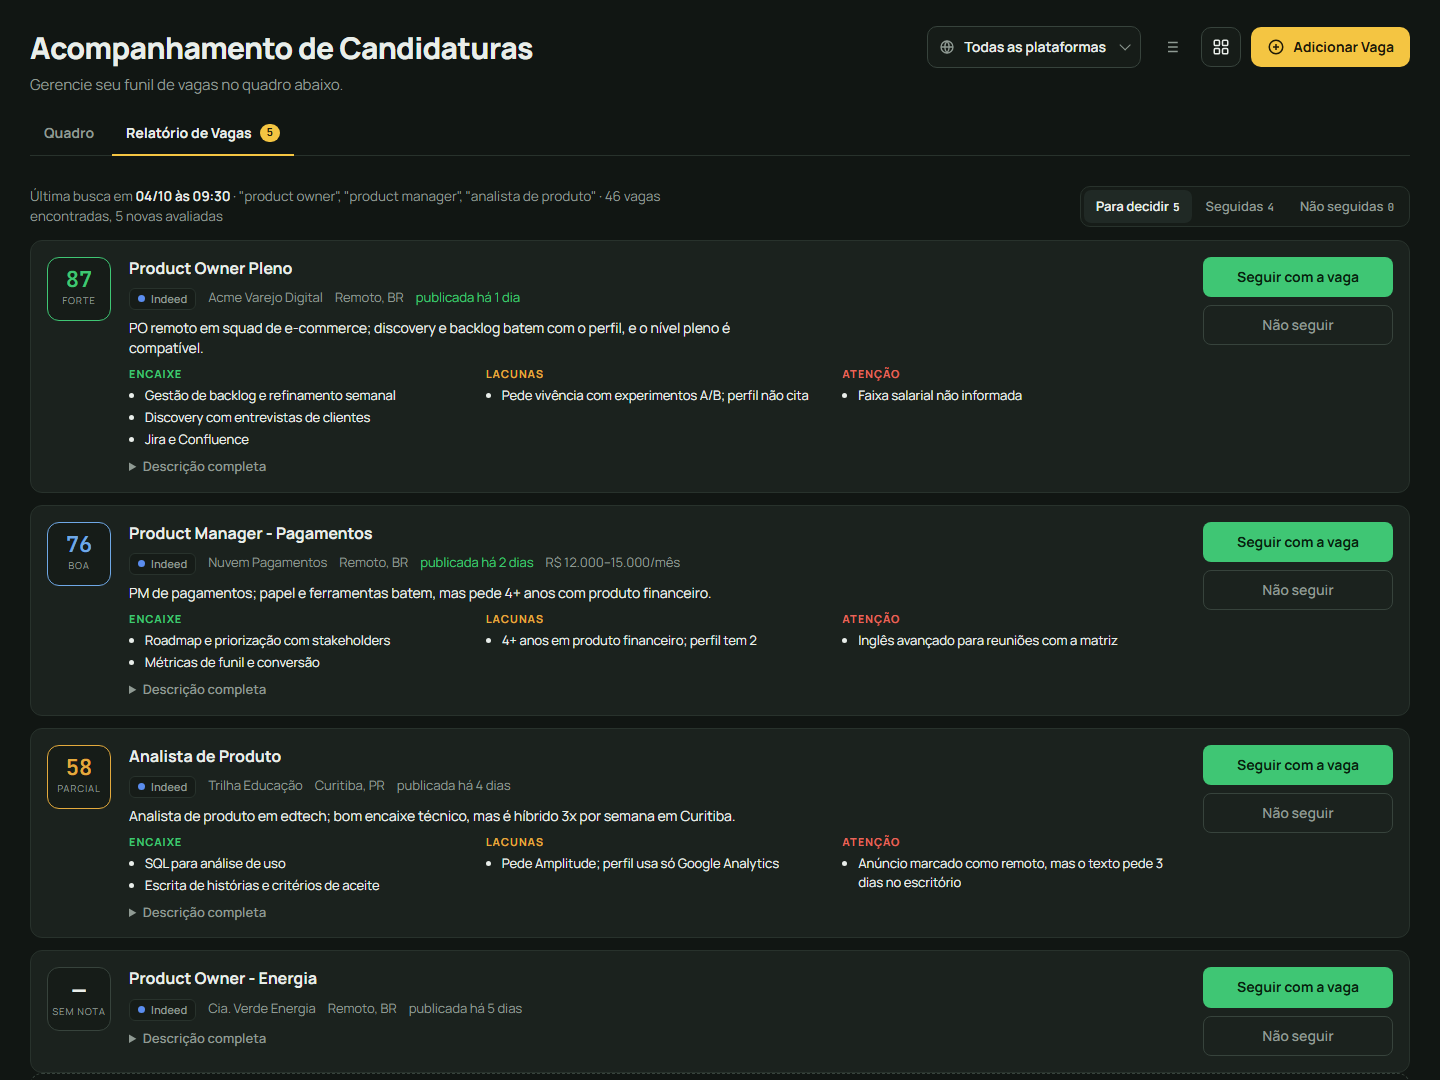
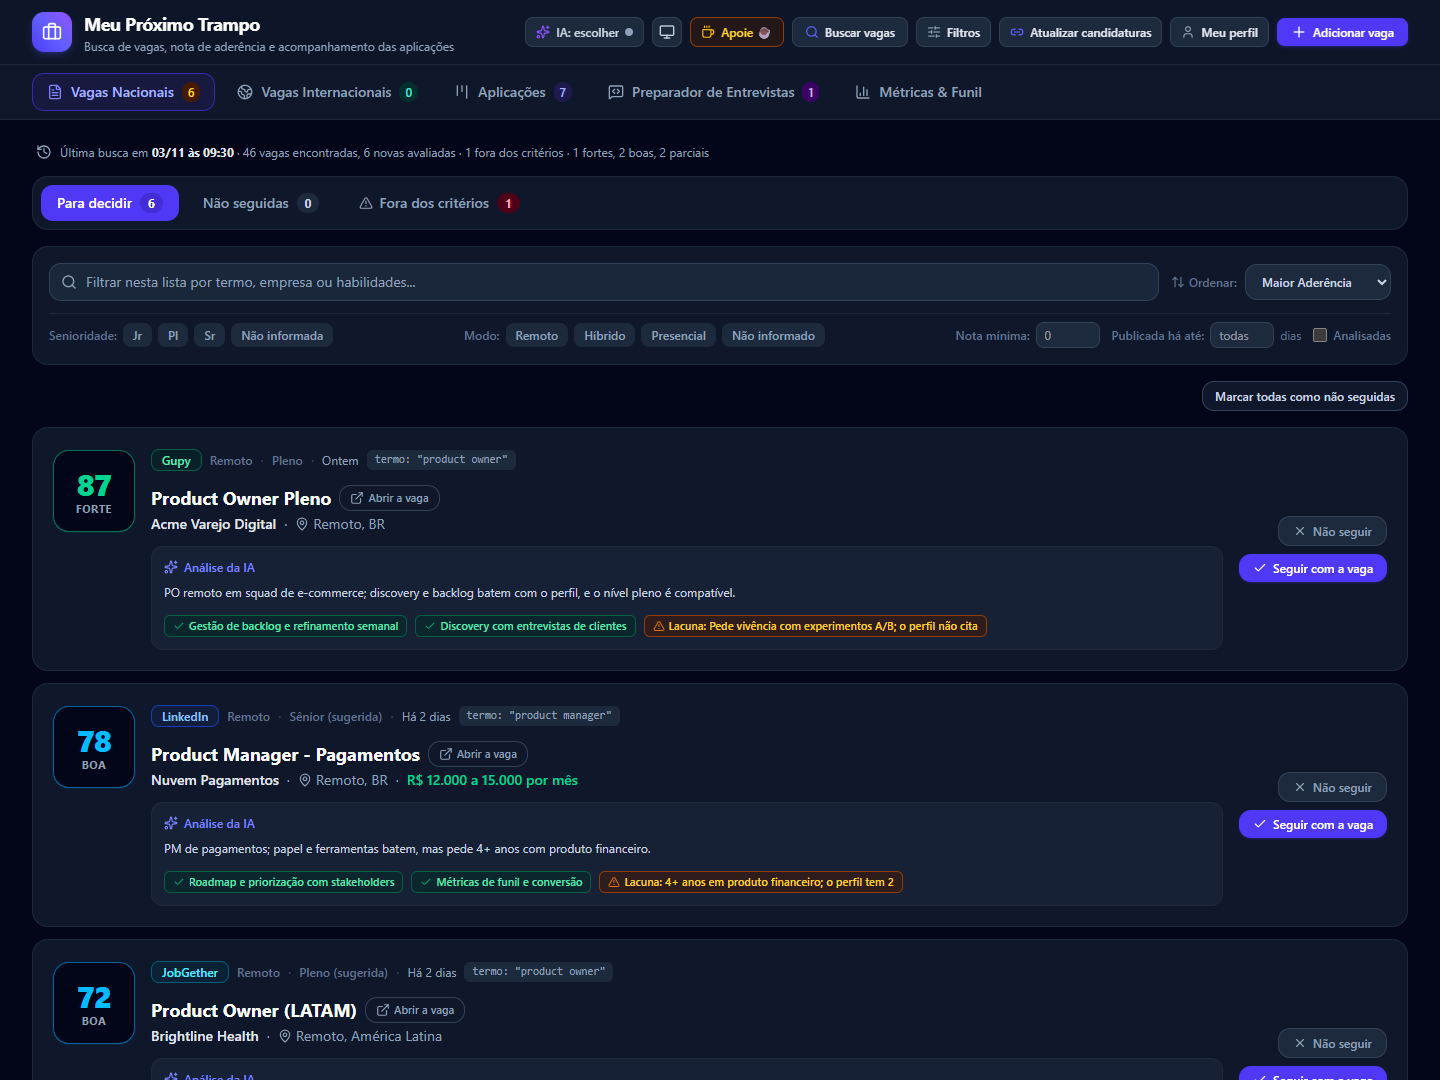
Documentação para quem chega: Como contribuir, capturas da página atual e ajustes de texto
- README: seção Como contribuir (testes, front na frontend-react, Spec Kit, skills, AGENTS.md) e o roteiro docs/novo-portal.md em Adicionar um portal; o .env em Seus dados e a lista de pausas com o MyGreenhouse e a EY como empresa.
- Capturas de Vagas Nacionais e Aplicações refeitas na página atual, com banco de demonstração (vagas e empresas inventadas).
- dash/README.md: título sem o nome antigo e a tabela de campos da vaga sem os parágrafos que a cortavam.
- .env.exemplo: login opcional da Gupy e do Greenhouse; docs/novo-portal.md: MYGREENHOUSE_PAUSA; skill buscar-vagas sem o nome antigo.

Changed region(s): [[0.0, 0.0, 1.0, 1.0], [0.8125, 0.6722, 0.9688, 0.7944], [0.8125, 0.4583, 0.9688, 0.55]]

diff --git a/README.md b/README.md
@@ -648,7 +648,8 @@ continua funcionando. Opções pontuais, sem mexer no arquivo:
   em `anexos/primeiros-passos/`, as versões anteriores do perfil em
   `anexos/perfis-anteriores/` e o progresso em `.cache/primeiros-passos.json`. O mesmo vale para `.liftli/` (o tom de voz
   das skills de LinkedIn), `linkedin/` (banners e imagens dos seus posts) e `.env`
-  (as chaves de API: as da IA, cadastradas pelo painel, e a opcional do startup.jobs). Se você fizer um fork, o seu
+  (as chaves da IA, cadastradas pelo painel; a chave opcional do startup.jobs; os logins opcionais da Gupy e do
+  Greenhouse, guardados pela página; e as pausas por portal: veja o `.env.exemplo`). Se você fizer um fork, o seu
   histórico continua só com você.
 - Dica: mantenha a ferramenta na branch `master` e os seus ajustes pessoais numa
   branch local (por exemplo `minha`), trazendo as melhorias com `git merge master`.
@@ -828,8 +829,8 @@ Para instalar à mão, no Claude Code:
   - Pausa sorteada de 3 a 7 segundos (`MYGREENHOUSE_PAUSA`, de 3 a 60). Se o portal recusar ou limitar, ele sai da
     busca sem nova tentativa e fica **24 horas em espera**. Captcha, login não feito ou página diferente da esperada
     deixam o portal de fora só daquela busca, com aviso.
-- **Pausa por portal:** cada portal que lê páginas (LinkedIn, Nerdin, InfoJobs, Vagas.com, EY, FullStack) tem a sua
-  pausa, ajustável no arquivo `.env` da raiz com `<PORTAL>_PAUSA=N` (`LINKEDIN_PAUSA`, `NERDIN_PAUSA`,
+- **Pausa por portal:** cada portal que lê páginas (LinkedIn, Nerdin, InfoJobs, Vagas.com, FullStack, MyGreenhouse
+  Jobs e o site da EY, nas empresas acompanhadas) tem a sua pausa, ajustável no arquivo `.env` da raiz com `<PORTAL>_PAUSA=N` (`LINKEDIN_PAUSA`, `NERDIN_PAUSA`,
   `INFOJOBS_PAUSA`, `VAGASCOM_PAUSA`, `EY_PAUSA`, `FULLSTACK_PAUSA`, `MYGREENHOUSE_PAUSA`), em segundos, de 3 a 60. O `.env.exemplo` traz uma linha comentada
   para cada um, com o padrão e o mínimo: copie a linha e tire o `#` do começo. O JobGether, que usa a API
   oficial, tem `JOBGETHER_PAUSA`, de 2 a 60 (padrão 2). Aumente só a do portal
@@ -890,7 +891,33 @@ O link e o QR code também ficam no canto de cima do dashboard.
 - [ ] Mais portais do Brasil (ex.: InHire, Catho, Glassdoor), pelo roteiro `docs/novo-portal.md`
 - [x] Preparar e simular entrevista para as vagas na coluna Entrevista
 
+## Como contribuir
+
+Contribuições são bem-vindas. Para contar um problema ou propor uma ideia, abra uma issue; numa mudança grande,
+converse na issue antes do PR. A ferramenta e a documentação são em português do Brasil.
+
+- **Testes:** `python -m unittest discover -s tests`, com o Python do `.venv` (`.venv\Scripts\python` no Windows).
+  Eles rodam em pastas temporárias, com dados fictícios, sem mexer nos seus.
+- **Python com a biblioteca padrão:** dependência nova só com motivo (as de hoje estão no `requirements.txt`).
+- **Nada pessoal na `master`:** ela é a ferramenta de qualquer pessoa. Nomes, empresas, números e regras suas ficam
+  numa branch local (veja [Seus dados](#seus-dados)), e `config.json`, `perfil.md`, `anexos/`, `curriculos/`,
+  `entrevistas/`, `dash/dados/`, `.cache/` e `.env` nunca entram num commit.
+- **A página é montada, não editada:** `dash/front/` é o resultado do build. O código-fonte do React fica na branch
+  `frontend-react` (o PR de uma mudança na página vai para ela), e o GitHub Actions ("Front: abrir PR", em
+  `.github/workflows/front.yml`) monta a página e abre o PR `front/atualizacao` para a `master`. O contrato entre a
+  página e o servidor está no [`dash/API.md`](dash/API.md), e o banco, no [`dash/README.md`](dash/README.md).
+- **Funcionalidade nova passa pelo [Spec Kit](https://github.com/github/spec-kit):** spec, plano e tarefas em
+  `specs/<número>-<nome>/` antes do código, seguindo a constituição do projeto
+  ([`.specify/memory/constitution.md`](.specify/memory/constitution.md)).
+- **Skills:** a fonte fica em `.agents/skills/`; depois de mudar uma, rode `python sincronizar_skills.py` para
+  atualizar a cópia em `.claude/skills/`.
+- **Com um assistente de código:** o [`AGENTS.md`](AGENTS.md) traz essas regras para o Claude Code, o Codex, o
+  Gemini CLI e o OpenCode.
+
 ### Adicionar um portal
+
+Comece pelo roteiro [`docs/novo-portal.md`](docs/novo-portal.md): a pesquisa do portal (termos de uso, regras para
+robôs, API), as decisões a tomar e os arquivos que um portal novo toca.
 
 Cada portal é um módulo em `fontes/` com uma função `buscar()` que devolve as vagas
 num formato comum. O contrato está em [`fontes/__init__.py`](fontes/__init__.py), e o
@@ -898,7 +925,7 @@ num formato comum. O contrato está em [`fontes/__init__.py`](fontes/__init__.py
 exemplo; o [`fontes/startupjobs.py`](fontes/startupjobs.py) mostra o `descrever()`, para
 portal cuja busca não traz a descrição. Portais do exterior sem filtro de país usam
 `POR_PAIS = False` e o apoio de [`fontes/_comum.py`](fontes/_comum.py) (o
-[`fontes/remotive.py`](fontes/remotive.py) é o exemplo mais curto). Contribuições são bem-vindas.
+[`fontes/remotive.py`](fontes/remotive.py) é o exemplo mais curto).
 
 ## Licença
 

diff --git a/dash/README.md b/dash/README.md
@@ -1,4 +1,4 @@
-# dash: Acompanhamento de Candidaturas
+# dash: o dashboard da ferramenta
 
 App local (Python, só biblioteca padrão) que mostra as vagas e o funil de candidaturas.
 
@@ -139,14 +139,6 @@ outros sites e `m-…` nas preenchidas à mão.
 | `lembretes`, `entrevista_em` | lembretes de follow-up marcados (`feito`, `dispensado`, `parar`, valem para a etapa e a data em `base`) e a data da entrevista |
 | `documentos[]` | cartas e respostas de formulário geradas pela página (`tipo`, `nome` dos arquivos em `curriculos/`) |
 | `checklist`, `lembretes_pendentes` | calculados pelo servidor a cada leitura (não gravados) |
-
-As análises do perfil (lacunas das vagas, cargos-alvo, plano de estudo e as marcações da prontidão
-internacional) ficam em `dash/dados/analises-perfil.json`, ao lado do banco, a última de cada tipo com a data.
-
-A preparação para entrevista fica fora do banco, em `entrevistas/` na raiz (fora do Git): `historias.json`
-(o banco de histórias, comum a todas as vagas, gravado só quando a pessoa confirma) e `vaga-<id>.json` (texto
-sobre a empresa, resumo, perguntas da IA, simulação e as anotações de cada entrevista). Rotas em
-`/api/entrevista/…`, só deste computador.
 | `sinais` | sinais positivos lidos no anúncio sem IA ("Oferece patrocínio de visto", "Oferece relocation" e as suas frases positivas); etiqueta verde na listagem, no card e no detalhe |
 | `triagem` | `pendente` (em Vagas Nacionais ou Vagas Internacionais), `seguir` (foi para Aplicações), `visitada` (não seguir), `fora` (furou os filtros da busca) |
 | `motivo_fora[]` | por que a vaga ficou fora dos critérios |
@@ -163,6 +155,14 @@ sobre a empresa, resumo, perguntas da IA, simulação e as anotações de cada e
 | `fora_dos_criterios` | análise da IA: motivo que os outros campos não pegam (ex.: exige residência em outro país) |
 | `anotacao` | suas anotações |
 | `criada_em`, `atualizada_em`, `analisada_em` | carimbos de data |
+
+As análises do perfil (lacunas das vagas, cargos-alvo, plano de estudo e as marcações da prontidão
+internacional) ficam em `dash/dados/analises-perfil.json`, ao lado do banco, a última de cada tipo com a data.
+
+A preparação para entrevista fica fora do banco, em `entrevistas/` na raiz (fora do Git): `historias.json`
+(o banco de histórias, comum a todas as vagas, gravado só quando a pessoa confirma) e `vaga-<id>.json` (texto
+sobre a empresa, resumo, perguntas da IA, simulação e as anotações de cada entrevista). Rotas em
+`/api/entrevista/…`, só deste computador.
 
 Uma vaga aparece em Aplicações quando tem `etapa` e é `manual` ou tem `triagem: "seguir"`.
 

diff --git a/.claude/skills/buscar-vagas/SKILL.md b/.claude/skills/buscar-vagas/SKILL.md
@@ -1,6 +1,6 @@
 ---
 name: buscar-vagas
-description: Busca vagas de emprego (Indeed, Gupy, InfoJobs, Vagas.com, Nerdin, JobGether e as empresas acompanhadas, como a EY; LinkedIn, startup.jobs e FullStack se estiverem ligados; o MyGreenhouse Jobs, portal com login, só pela página), dá nota de aderência de cada vaga ao perfil de carreira do usuário e grava as vagas no dashboard local "Acompanhamento de Candidaturas" (abas Vagas Nacionais e Vagas Internacionais), onde o usuário decide se segue ou não com cada vaga. Também analisa vagas adicionadas à mão no dashboard, ajuda a montar o perfil e a configuração no primeiro uso, abre o dashboard e responde sobre o andamento das candidaturas. Use sempre que o usuário pedir para procurar, buscar ou atualizar vagas, empregos ou oportunidades, perguntar "tem vaga nova?", pedir a busca num desses portais, pedir para abrir o dashboard, analisar as vagas que adicionou nele ou as vagas das listas, ou perguntar em que pé estão as candidaturas (entrevistas, aplicações, propostas) ou o que as vagas pedem (habilidades mais pedidas, certificações, tempo de experiência), mesmo sem citar o portal nem o dashboard. Perguntas pontuais só sobre a Gupy (vagas de uma empresa, vagas PCD, salário de uma vaga) são com a skill consultar-gupy.
+description: Busca vagas de emprego (Indeed, Gupy, InfoJobs, Vagas.com, Nerdin, JobGether e as empresas acompanhadas, como a EY; LinkedIn, startup.jobs e FullStack se estiverem ligados; o MyGreenhouse Jobs, portal com login, só pela página), dá nota de aderência de cada vaga ao perfil de carreira do usuário e grava as vagas no dashboard local (abas Vagas Nacionais e Vagas Internacionais), onde o usuário decide se segue ou não com cada vaga. Também analisa vagas adicionadas à mão no dashboard, ajuda a montar o perfil e a configuração no primeiro uso, abre o dashboard e responde sobre o andamento das candidaturas. Use sempre que o usuário pedir para procurar, buscar ou atualizar vagas, empregos ou oportunidades, perguntar "tem vaga nova?", pedir a busca num desses portais, pedir para abrir o dashboard, analisar as vagas que adicionou nele ou as vagas das listas, ou perguntar em que pé estão as candidaturas (entrevistas, aplicações, propostas) ou o que as vagas pedem (habilidades mais pedidas, certificações, tempo de experiência), mesmo sem citar o portal nem o dashboard. Perguntas pontuais só sobre a Gupy (vagas de uma empresa, vagas PCD, salário de uma vaga) são com a skill consultar-gupy.
 ---
 <!-- Cópia gerada de .agents/skills/buscar-vagas/ por sincronizar_skills.py: edite lá. -->
 

diff --git a/.agents/skills/buscar-vagas/SKILL.md b/.agents/skills/buscar-vagas/SKILL.md
@@ -1,6 +1,6 @@
 ---
 name: buscar-vagas
-description: Busca vagas de emprego (Indeed, Gupy, InfoJobs, Vagas.com, Nerdin, JobGether e as empresas acompanhadas, como a EY; LinkedIn, startup.jobs e FullStack se estiverem ligados; o MyGreenhouse Jobs, portal com login, só pela página), dá nota de aderência de cada vaga ao perfil de carreira do usuário e grava as vagas no dashboard local "Acompanhamento de Candidaturas" (abas Vagas Nacionais e Vagas Internacionais), onde o usuário decide se segue ou não com cada vaga. Também analisa vagas adicionadas à mão no dashboard, ajuda a montar o perfil e a configuração no primeiro uso, abre o dashboard e responde sobre o andamento das candidaturas. Use sempre que o usuário pedir para procurar, buscar ou atualizar vagas, empregos ou oportunidades, perguntar "tem vaga nova?", pedir a busca num desses portais, pedir para abrir o dashboard, analisar as vagas que adicionou nele ou as vagas das listas, ou perguntar em que pé estão as candidaturas (entrevistas, aplicações, propostas) ou o que as vagas pedem (habilidades mais pedidas, certificações, tempo de experiência), mesmo sem citar o portal nem o dashboard. Perguntas pontuais só sobre a Gupy (vagas de uma empresa, vagas PCD, salário de uma vaga) são com a skill consultar-gupy.
+description: Busca vagas de emprego (Indeed, Gupy, InfoJobs, Vagas.com, Nerdin, JobGether e as empresas acompanhadas, como a EY; LinkedIn, startup.jobs e FullStack se estiverem ligados; o MyGreenhouse Jobs, portal com login, só pela página), dá nota de aderência de cada vaga ao perfil de carreira do usuário e grava as vagas no dashboard local (abas Vagas Nacionais e Vagas Internacionais), onde o usuário decide se segue ou não com cada vaga. Também analisa vagas adicionadas à mão no dashboard, ajuda a montar o perfil e a configuração no primeiro uso, abre o dashboard e responde sobre o andamento das candidaturas. Use sempre que o usuário pedir para procurar, buscar ou atualizar vagas, empregos ou oportunidades, perguntar "tem vaga nova?", pedir a busca num desses portais, pedir para abrir o dashboard, analisar as vagas que adicionou nele ou as vagas das listas, ou perguntar em que pé estão as candidaturas (entrevistas, aplicações, propostas) ou o que as vagas pedem (habilidades mais pedidas, certificações, tempo de experiência), mesmo sem citar o portal nem o dashboard. Perguntas pontuais só sobre a Gupy (vagas de uma empresa, vagas PCD, salário de uma vaga) são com a skill consultar-gupy.
 ---
 
 # Buscar vagas

diff --git a/docs/novo-portal.md b/docs/novo-portal.md
@@ -68,7 +68,7 @@ Faça poucos pedidos nessa pesquisa, espaçados, e só à parte pública. As amo
 
 Cada portal que consulta páginas tem sua pausa, em segundos, ajustável pela variável `<NOME>_PAUSA` (o `NOME` da
 fonte em maiúsculas: `LINKEDIN_PAUSA`, `NERDIN_PAUSA`, `INFOJOBS_PAUSA`, `VAGASCOM_PAUSA`, `EY_PAUSA`,
-`FULLSTACK_PAUSA`, `JOBGETHER_PAUSA`).
+`FULLSTACK_PAUSA`, `MYGREENHOUSE_PAUSA`, `JOBGETHER_PAUSA`).
 - Sem a variável, vale o padrão do portal.
 - Um valor abaixo do mínimo dele vira o mínimo; acima de 60, vira 60.
 - Um valor que não é número é ignorado, com aviso no começo da busca.
